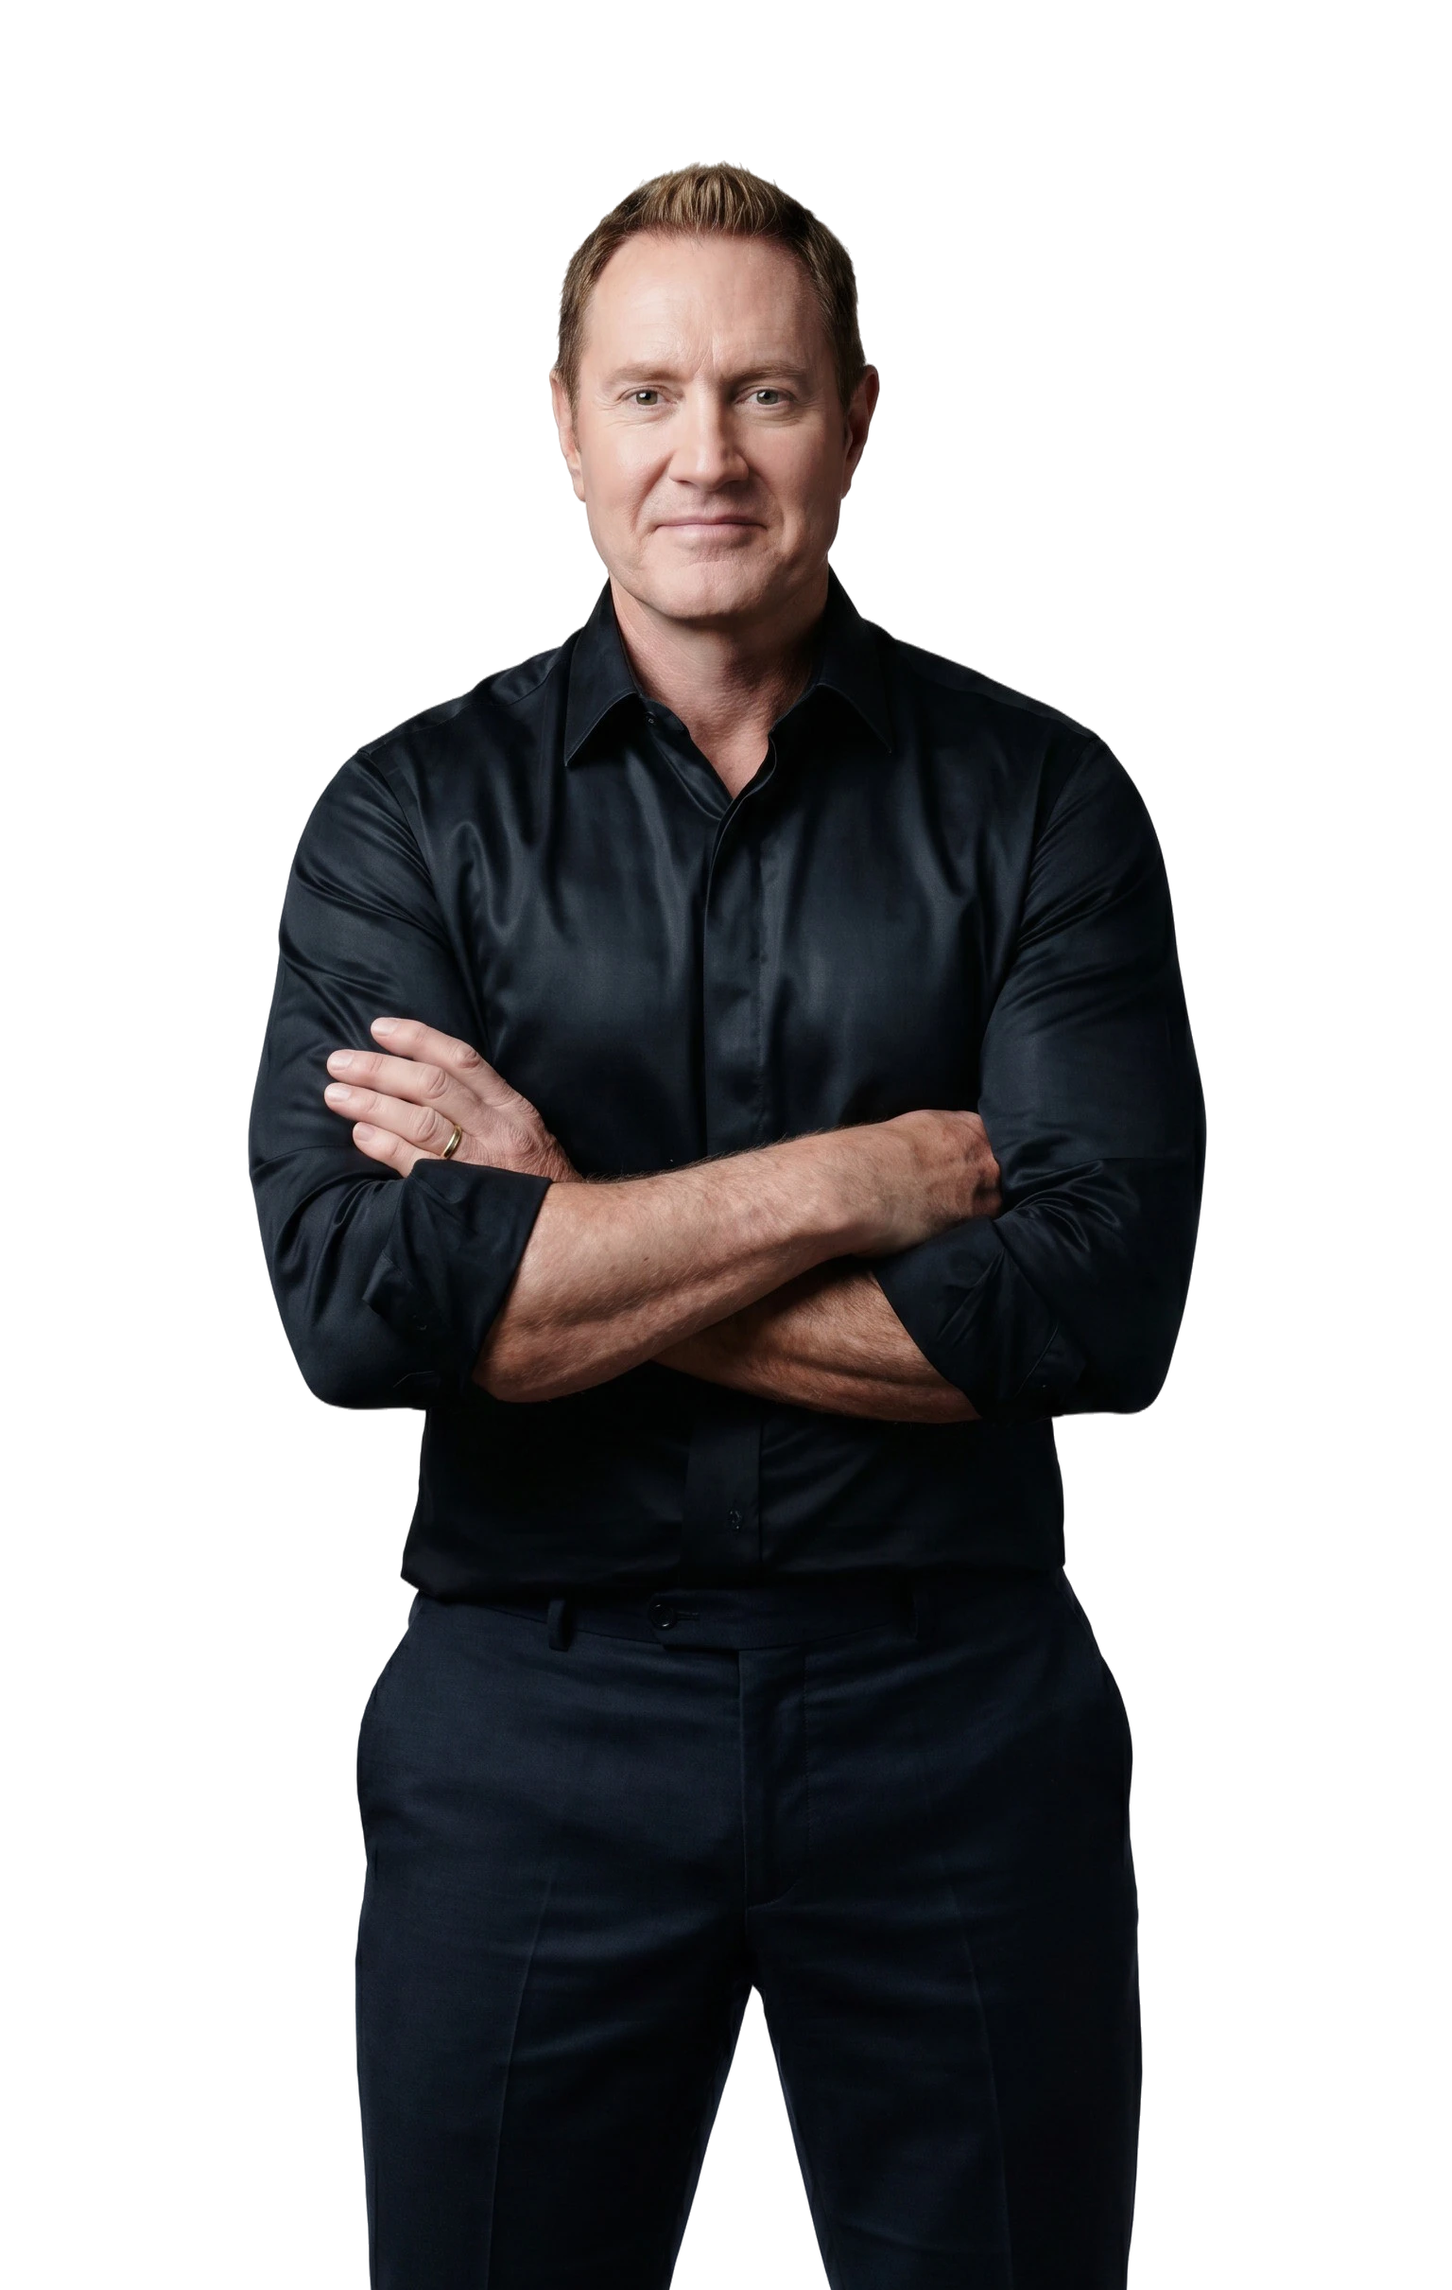
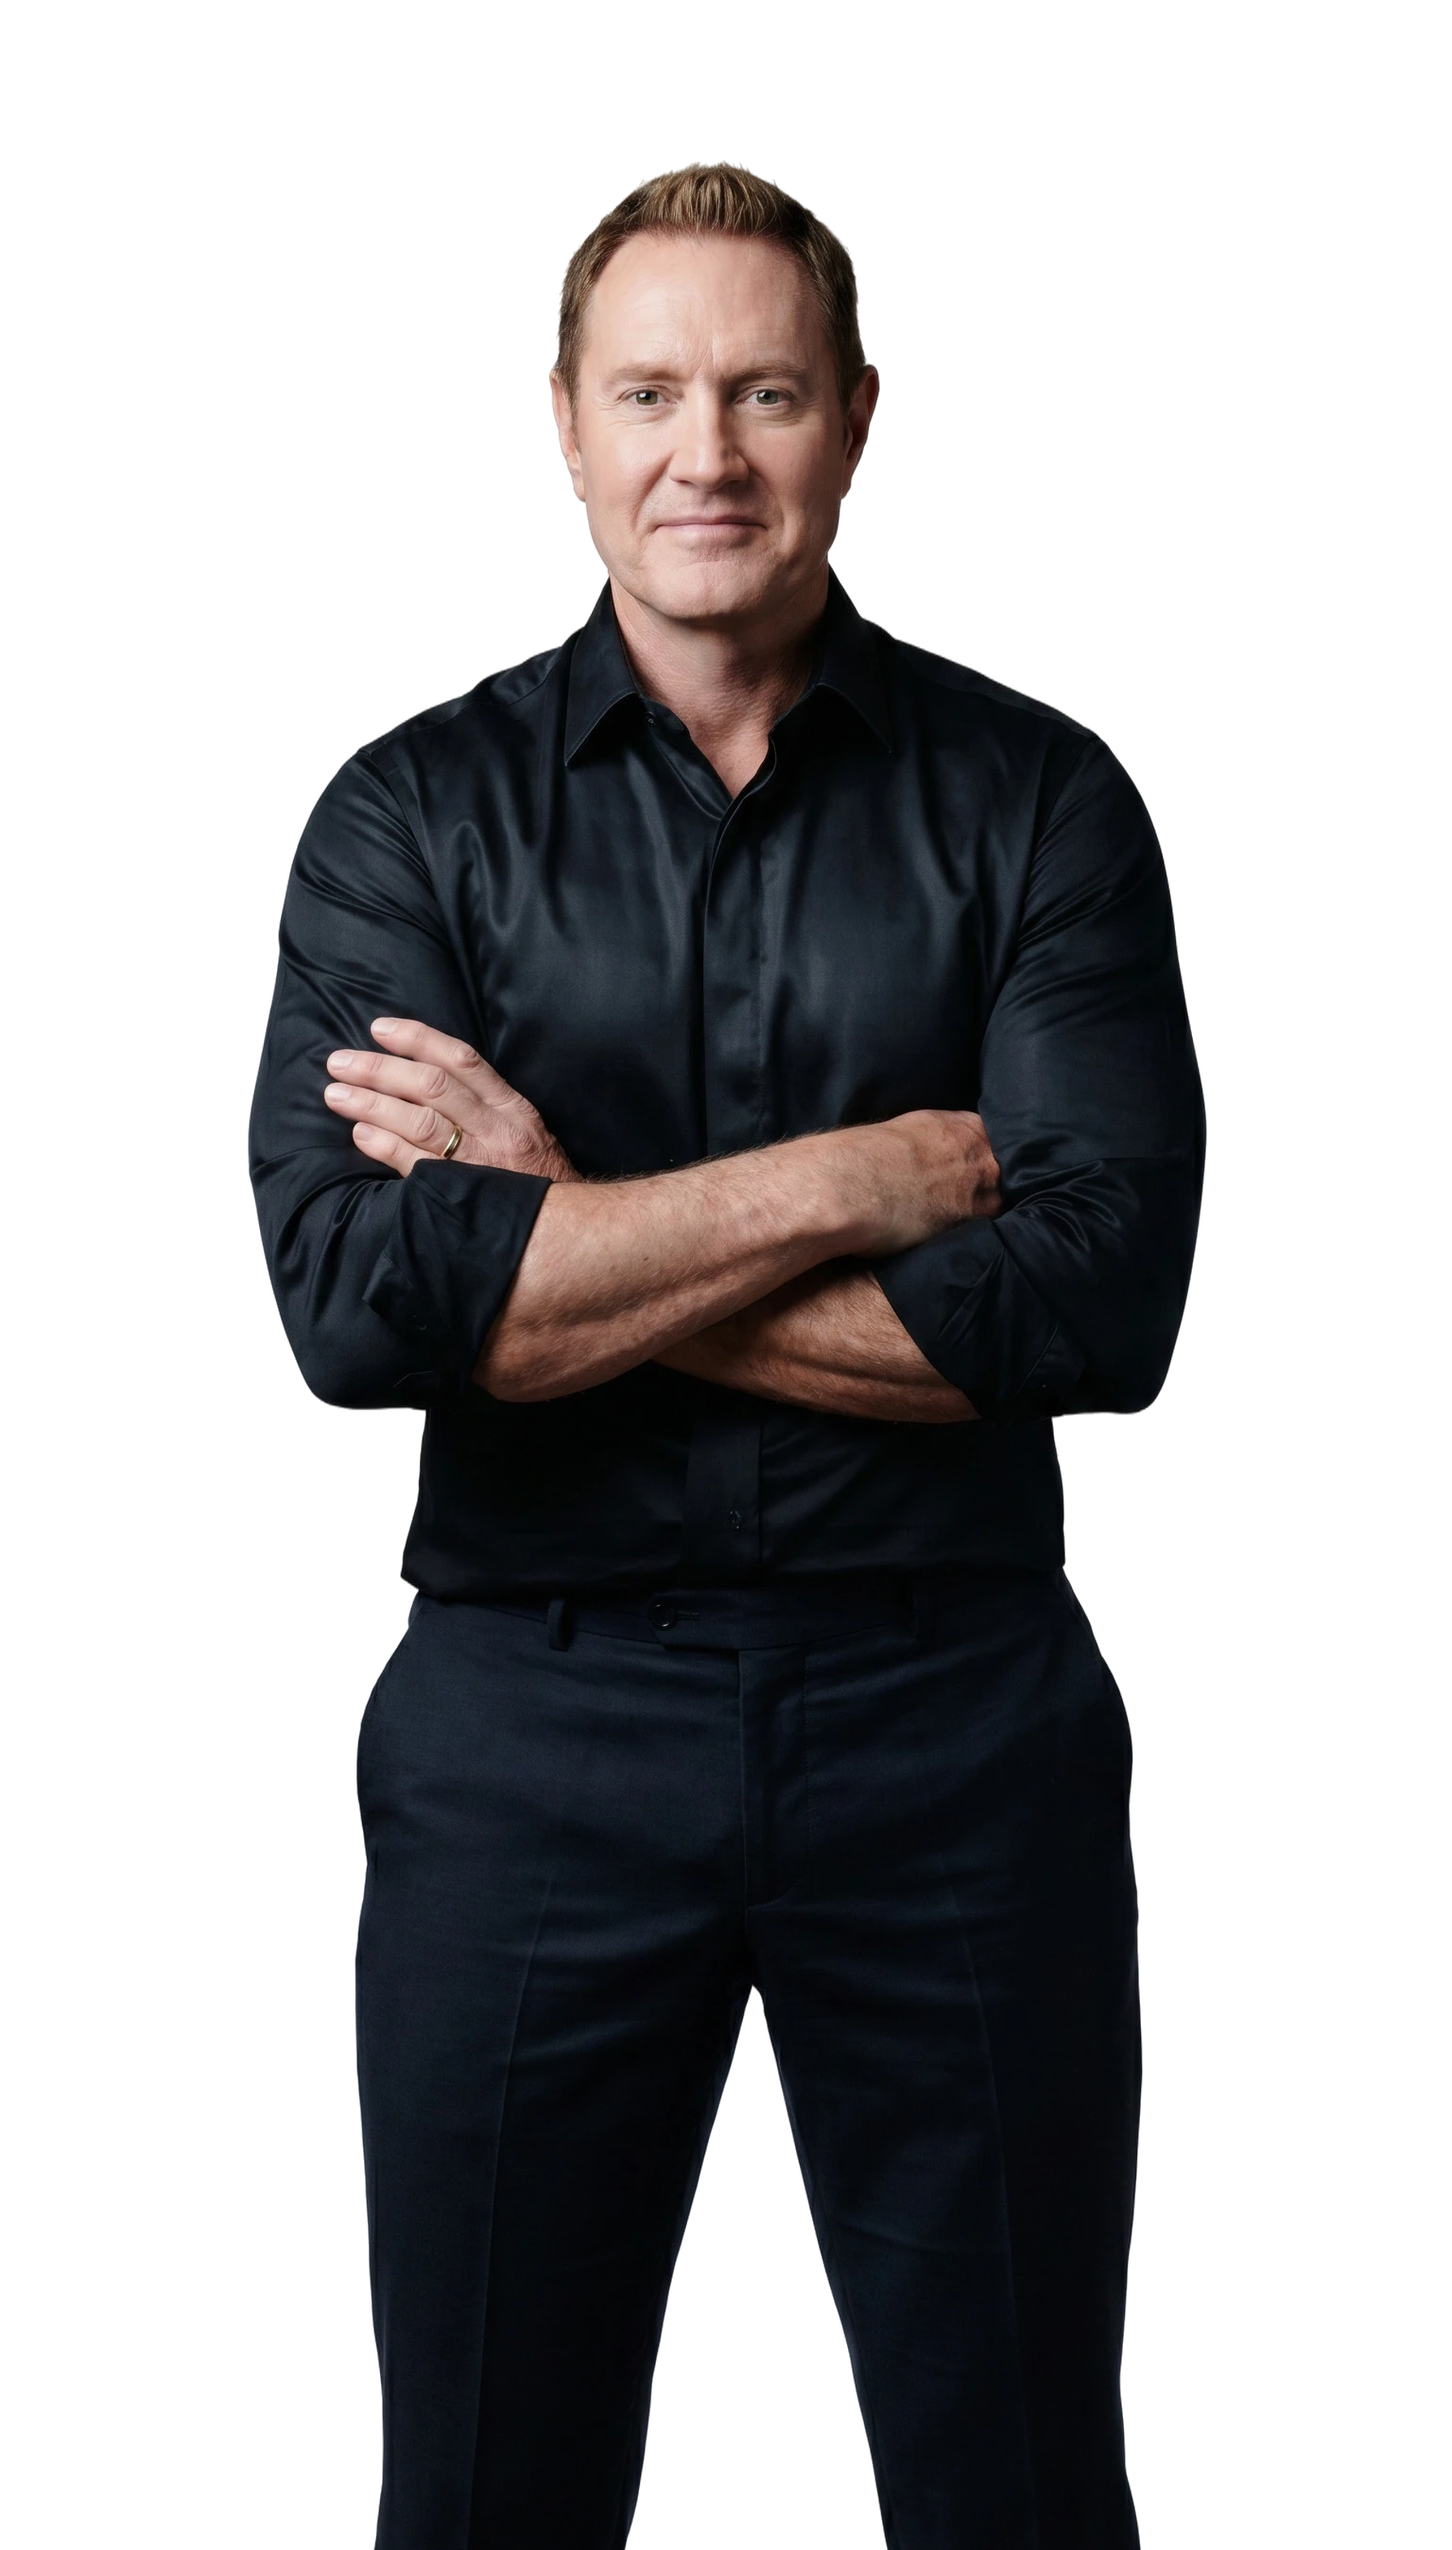
About: drop wall DH head to eyebrow line via top-anchor + more legs
His head sat ~16% from the top (bottom-anchored 84%), above THE RECEIPT
eyebrow. Re-cropped the original keeping 98% (gives nearly all legs back
vs prior 88%) and switched .access-dh from bottom-anchor to top-anchor at
22% (18% mobile), bumping height 84%->94% so his apparent size stays the
same while the restored legs run off the bottom edge (clipped by the
wall's overflow). Head now lands at the eyebrow line.

diff --git a/about.html b/about.html
@@ -583,17 +583,17 @@
   /* DH cutout fixed over the covers wall */
   .access-dh {
     position: absolute;
-    bottom: 0; left: 50%;
+    top: 22%; left: 50%;
     transform: translateX(-50%);
-    height: 84%;
+    height: 94%;
     z-index: 6;
     pointer-events: none;
     display: flex;
-    align-items: flex-end;
+    align-items: flex-start;
   }
   .access-dh picture { display: contents; }
   .access-dh img { height: 100%; width: auto; display: block; }
-  @media (max-width: 960px) { .access-dh { height: 76%; } }
+  @media (max-width: 960px) { .access-dh { top: 18%; height: 86%; } }
 
   /* RIGHT — copy column on dark */
   .access-text {
